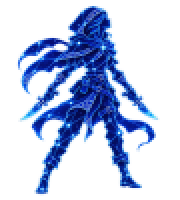
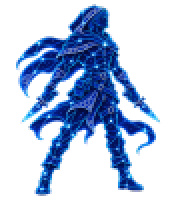
Enrich astral selection visuals

Changed region(s): [[0.0833, 0.0, 0.8889, 0.99]]

diff --git a/astral_scene.py b/astral_scene.py
@@ -15,6 +15,16 @@ class AstralScene:
     def __init__(self, canvas, font, assets: Path):
         self.canvas, self.font = canvas, font
         folder = assets / "astral"
+        self.sky = tk.PhotoImage(master=canvas, file=str(folder / "starfield.png"))
+        # Smaller pieces avoid large temporary Tk images at fractional fullscreen scales.
+        self.sky_tiles = []
+        for row in range(3):
+            for col in range(3):
+                x, y = col * 320, row * 180
+                width, height = min(321, 960-x), min(181, 540-y)
+                tile = tk.PhotoImage(master=canvas, width=width, height=height)
+                tile.tk.call(tile, "copy", self.sky, "-from", x, y, x+width, y+height)
+                self.sky_tiles.append((x, y, tile))
         self.stones = [tk.PhotoImage(master=canvas, file=str(folder / f"stone-{i}.png")).zoom(2)
                        for i in range(3)]
         self.silhouettes = {job: tk.PhotoImage(master=canvas, file=str(folder / (job.lower() + ".png")))
@@ -24,7 +34,11 @@ class AstralScene:
         rng = random.Random(731)
         self.stars = [(rng.randrange(35, 925), rng.randrange(24, 514),
                        rng.choice(("#375c9a", "#608fca", "#9ecbea")))
-                      for _ in range(55)]
+                      for _ in range(28)]
+        self.twinkle_stars = [(rng.randrange(40, 920), rng.randrange(30, 510),
+                               rng.randrange(4)) for _ in range(14)]
+        self.twinkle_items = []
+        self.twinkle_step = None
         self.active = False
 
     def start(self, party, now, reveal=True):
@@ -47,11 +61,18 @@ class AstralScene:
 
     def _background(self):
         c, tag = self.canvas, self.TAG
-        c.create_rectangle(0, 0, 960, 540, fill="#080f2b", outline="", tags=tag)
+        for x, y, tile in self.sky_tiles:
+            c.create_image(x, y, image=tile, anchor="nw", tags=tag)
         c.create_rectangle(15, 15, 945, 525, outline="#bc9a5a", width=3, tags=tag)
         c.create_rectangle(21, 21, 939, 519, outline="#355d9d", width=2, tags=tag)
         for x, y, color in self.stars:
             c.create_rectangle(x, y, x+2, y+2, fill=color, outline="", tags=tag)
+        self.twinkle_items = []
+        self.twinkle_step = None
+        for x, y, offset in self.twinkle_stars:
+            horizontal = c.create_line(x-3, y, x+3, y, fill="#7295c6", tags=tag)
+            vertical = c.create_line(x, y-3, x, y+3, fill="#7295c6", tags=tag)
+            self.twinkle_items.append((horizontal, vertical, offset))
 
     def draw(self):
         c, tag = self.canvas, self.TAG
@@ -126,6 +147,14 @@ class AstralScene:
         if index != self.stone_index:
             self.stone_index = index
             self.canvas.itemconfigure(self.stone_item, image=self.stones[index])
+        step = int(max(0.0, now - self.started) / 0.35)
+        if step != self.twinkle_step:
+            self.twinkle_step = step
+            colors = ("#35537f", "#7295c6", "#c5edff", "#7295c6")
+            for horizontal, vertical, offset in self.twinkle_items:
+                color = colors[(step + offset) % len(colors)]
+                self.canvas.itemconfigure(horizontal, fill=color)
+                self.canvas.itemconfigure(vertical, fill=color)
 
     def navigate(self, direction, now):
         if self.phase == "reveal":

diff --git a/test_sync_menu.py b/test_sync_menu.py
@@ -107,7 +107,7 @@ class SyncMenuTests(unittest.TestCase):
         self.scene.start(self.party, 0, reveal=False)
         images = [i for i in self.canvas.find_withtag(self.scene.TAG)
                   if self.canvas.type(i) == "image"]
-        self.assertEqual(len(images), 5)  # Stone, selected silhouette, three existing emblems.
+        self.assertEqual(len(images), 14)  # Nine sky tiles, stone, silhouette, three emblems.
         self.assertIn(str(self.scene.silhouettes["Seer"]),
                       [self.canvas.itemcget(i, "image") for i in images])
         for item in self.canvas.find_withtag(self.scene.TAG):
@@ -122,4 +122,22 @@ class SyncMenuTests(unittest.TestCase):
         self.scene.draw()
         images = [i for i in self.canvas.find_withtag(self.scene.TAG)
                   if self.canvas.type(i) == "image"]
-        self.assertEqual(len(images), 4)  # No class silhouette for leaving unattuned.
+        self.assertEqual(len(images), 13)  # No class silhouette for leaving unattuned.
+
+    def test_stars_twinkle_without_rebuilding_the_screen(self):
+        self.scene.start(self.party, 0, reveal=False)
+        star, _, _ = self.scene.twinkle_items[0]
+        self.scene.update(0)
+        initial = self.canvas.itemcget(star, "fill")
+        self.scene.update(0.36)
+        self.assertNotEqual(self.canvas.itemcget(star, "fill"), initial)
+        self.assertEqual(self.scene.phase, "choose")
+        self.scene.navigate("down", 1)
+        self.scene.update(1.4)
+        self.assertEqual(self.scene.selection, 1)
+        self.assertTrue(self.canvas.type(self.scene.twinkle_items[0][0]))
+
+    def test_stone_frames_have_transparent_outer_corners(self):
+        for stone in self.scene.stones:
+            self.assertTrue(stone.transparency_get(0, 0))
+            self.assertTrue(stone.transparency_get(stone.width()-1, stone.height()-1))
